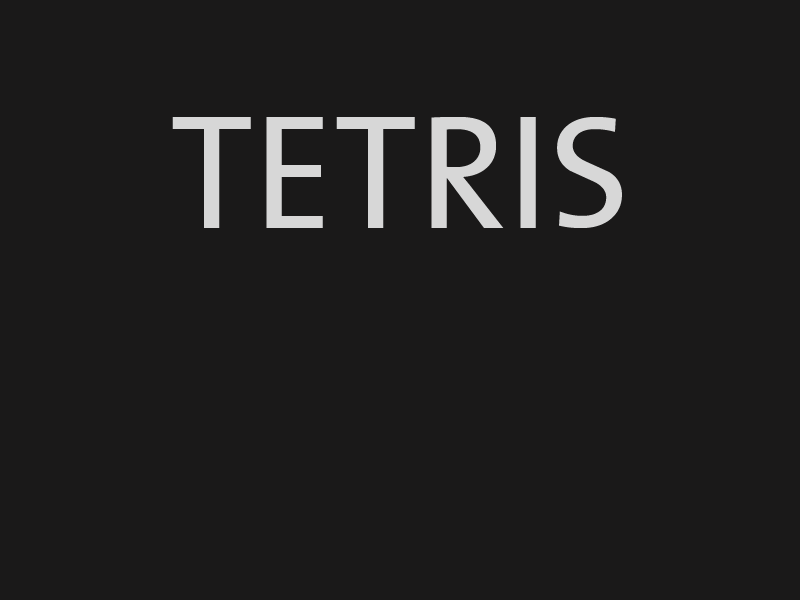
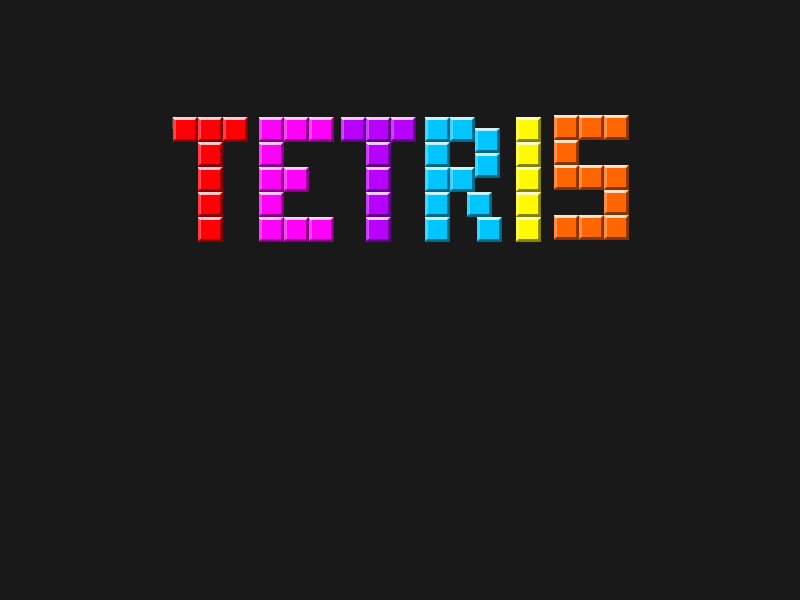
Updated the collision handler and block class, hopefully the bug where a block disappears will be gone now. When halting a block, all squares are now positioned with non-decimal positions. Also, the main menu screen is changed. When pressing "statistics" in game over screen an example plot is shown.

Changed region(s): [[0.2188, 0.18, 0.8125, 0.42]]

diff --git a/src/tetris/Test.java b/src/tetris/Test.java
@@ -1,0 +1,93 @@
+package tetris;
+import java.io.BufferedReader;
+import java.io.File;
+import java.io.FileNotFoundException;
+import java.io.FileReader;
+import java.io.IOException;
+
+import javax.swing.JFrame;
+
+import org.jfree.chart.ChartFactory;
+import org.jfree.chart.ChartPanel;
+import org.jfree.chart.JFreeChart;
+import org.jfree.chart.plot.PlotOrientation;
+import org.jfree.data.category.CategoryDataset;
+import org.jfree.data.category.DefaultCategoryDataset;
+
+public class Test extends JFrame {
+
+	private static final long serialVersionUID = 1L;
+	private BufferedReader in;
+	
+	public void reveal() {
+		pack();
+		setVisible(true);
+	}
+
+	public Test(File file) {
+		super("Difficulty chart");
+		try {
+			in = new BufferedReader(new FileReader(file));
+		} catch (FileNotFoundException e) {
+			e.printStackTrace();
+		}
+		// This will create the dataset
+		CategoryDataset dataset = createDataset();
+		// based on the dataset we create the chart
+		JFreeChart chart = createChart(dataset, "Difficulty over time");
+		// we put the chart into a panel
+		ChartPanel chartPanel = new ChartPanel(chart);
+		// default size
+		chartPanel.setPreferredSize(new java.awt.Dimension(500, 270));
+		// add it to our application
+		setContentPane(chartPanel);
+		
+
+
+	}
+
+	/**
+	 * Creates a sample dataset
+	 */
+
+	private CategoryDataset createDataset() {
+		DefaultCategoryDataset result = new DefaultCategoryDataset();
+		final String series1 = "Session";
+		String line = "";
+		String[] values;
+		try {
+			line = in.readLine();
+			while(line != null) {
+				values = line.split(",");
+				result.addValue(Double.parseDouble(values[1]), series1, values[0]);
+				line = in.readLine();
+			}
+		} catch (IOException e) {
+			e.printStackTrace();
+		}
+			
+		return result;
+
+	}
+
+	/**
+	 * Creates a chart
+	 */
+
+	private JFreeChart createChart(CategoryDataset dataset, String title) {
+
+		final JFreeChart chart = ChartFactory.createLineChart(
+				"Difficulty over time", // chart title
+				"Time (seconds)", // domain axis label
+				"Difficulty", // range axis label
+				dataset, // data
+				PlotOrientation.VERTICAL, // orientation
+				true, // include legend
+				true, // tooltips
+				false // urls
+				);
+		
+		return chart;
+
+	}
+}

diff --git a/src/tetris/GamePlayState.java b/src/tetris/GamePlayState.java
@@ -41,7 +41,7 @@ public class GamePlayState extends BasicGameState {
 	public GamePlayState(int stateID, Game game) {
 		this.stateID = stateID;
 		gridSquares = new Square[gridWidth][gridHeight];
-		blockSpeed = 1f;// The speed with which all blocks will be falling
+		blockSpeed = 3.3f;// The speed with which all blocks will be falling
 		collisionHandler = new CollisionHandler(this);
 		builder = new BlockBuilder(this);
 		timeSinceGameOver = 0;
@@ -139,14 +139,10 @@ public class GamePlayState extends BasicGameState {
 				}
 			} else if (input.isKeyPressed(Input.KEY_UP)) {
 				block.rotate();
-				/*
-				 * } else if (input.isKeyPressed(Input.KEY_DOWN)) {
-				 * block.reverseRotate();
-				 */
 			} else if (input.isKeyPressed(Input.KEY_R)) {
 				block.setPosition(276, 26);
 			}
-			if (input.isKeyDown(Input.KEY_DOWN)) {
+			else if (input.isKeyDown(Input.KEY_DOWN)) {
 				block.setSpeed(10);
 			} else {
 				block.setSpeed(getBlockSpeed());
@@ -154,6 +150,7 @@ public class GamePlayState extends BasicGameState {
 
 			float collisionDistance = collisionHandler.willCollideDown(block);
 			if (collisionDistance > 0) {
+				System.out.println(collisionDistance);
 				block.moveDown(collisionDistance); // The block is moved down
 													// the
 													// distance left to
@@ -173,6 +170,13 @@ public class GamePlayState extends BasicGameState {
 		nextBlock.setOnTop();
 		block = nextBlock;
 		nextBlock = builder.generateBlock();
+		for (int i = 0; i < gridWidth; i++) {
+			for (int j = 0; j < gridHeight; j++) {
+				if (gridSquares[i][j] != null) {
+					System.out.println("X: " + gridSquares[i][j].getX()+ ", Y: " + gridSquares[i][j].getY());
+				}
+			}
+		}
 	}
 
 	public void updateScore(int fullRow) {

diff --git a/src/tetris/components/BlockBuilder.java b/src/tetris/components/BlockBuilder.java
@@ -10,7 +10,7 @@ public class BlockBuilder {
 	private float blockSpeed;
 	private float x, y;
 	public BlockBuilder(GamePlayState gps) {
-		blockSpeed = gps.getBlockSpeed();
+		blockSpeed = (float) gps.getBlockSpeed();
 		x = Measurements.GRID_XSTART+Measurements.GRID_WIDTH + 4*BlockInfo.SIZE;
 		y = Measurements.GRID_YSTART + 4*BlockInfo.SIZE;
 	}
@@ -20,19 +20,19 @@ public class BlockBuilder {
 		int block = random.nextInt(7);
 		switch (block) {
 		case 0:
-			return new IBlock(x,y-10, blockSpeed);
+			return new IBlock(x,y-10, blockSpeed);//I
 		case 1:
-			return new JBlock(x+10,y, blockSpeed);
+			return new JBlock(x+10,y, blockSpeed);//J
 		case 2:
-			return new LBlock(x+10,y, blockSpeed);
+			return new LBlock(x+10,y, blockSpeed);//L
 		case 3:
-			return new OBlock(x,y-BlockInfo.SIZE, blockSpeed);
+			return new OBlock(x,y-BlockInfo.SIZE, blockSpeed);//O
 		case 4:
-			return new SBlock(x-10,y-BlockInfo.SIZE, blockSpeed);
+			return new SBlock(x-10,y-BlockInfo.SIZE, blockSpeed);//S
 		case 5:
-			return new TBlock(x+10,y, blockSpeed);
+			return new TBlock(x+10,y, blockSpeed);//T
 		case 6:
-			return new ZBlock(x+10,y-BlockInfo.SIZE, blockSpeed);
+			return new ZBlock(x+10,y-BlockInfo.SIZE, blockSpeed);//Z
 		}
 		return null;
 	}

diff --git a/src/tetris/CollisionHandler.java b/src/tetris/CollisionHandler.java
@@ -81,7 +81,7 @@ public class CollisionHandler {
 				for (int j = 0; j < gridHeight; j++) {
 					if (squares[i][j] != null) {
 						Square gridSquare = squares[i][j];
-						if (square.getX() == gridSquare.getX()) {
+						if (square.getX() >= gridSquare.getX()-1 && square.getX() <= gridSquare.getX()+1) {
 							if (square.getY() <= gridSquare.getY()
 									+ BlockInfo.SIZE
 									&& square.getY() >= gridSquare.getY()
@@ -180,7 +180,7 @@ public class CollisionHandler {
 								&& !(gridSquare.getY() < square.getY())) {
 							if (gridSquare.getY() <= (square.getY()
 									+ BlockInfo.SIZE + block.getSpeed())) {
-								float distanceLeft = (float) (gridSquare.getY() - (square
+								float distanceLeft = (gridSquare.getY() - (square
 										.getY() + BlockInfo.SIZE));
 								if (distanceLeft > 0)
 									return distanceLeft;

diff --git a/src/tetris/components/Block.java b/src/tetris/components/Block.java
@@ -1,5 +1,6 @@
 package tetris.components;
 
+import java.text.DecimalFormat;
 import java.util.ArrayList;
 
 import resources.BlockInfo;
@@ -44,6 +45,15 @@ public class Block {
 	 */
 	public void halt() {
 		isMoving = false;
+		adjustSquares();
+	}
+	
+	public void adjustSquares() {
+		DecimalFormat df = new DecimalFormat("#.");
+		for(Square square : squares) {
+			square.setX(Float.valueOf(df.format(square.getX())));
+			square.setY(Float.valueOf(df.format(square.getY())));
+		}
 	}
 
 	/**

diff --git a/src/tetris/GameOverState.java b/src/tetris/GameOverState.java
@@ -2,6 +2,7 @@ package tetris;
 
 import java.awt.Color;
 import java.awt.Font;
+import java.io.File;
 
 import org.newdawn.slick.GameContainer;
 import org.newdawn.slick.Graphics;
@@ -37,7 +38,8 @@ public class GameOverState extends BasicGameState {
 				stateID) {
 			@Override
 			public void perform() {
-				System.out.println("LAWL");
+				Test test = new Test(new File("conf/exp.dif"));
+				test.reveal();
 			}
 		};
 		

diff --git a/src/tetris/DifficultyManager.java b/src/tetris/DifficultyManager.java
@@ -16,7 +16,7 @@ public class DifficultyManager {
 
 	public DifficultyManager(File file, GamePlayState gps) {
 		try {
-			in = new BufferedReader(new FileReader(new File("conf/easy.dif")));
+			in = new BufferedReader(new FileReader(new File("conf/exp.dif")));
 			isReady = true;
 			currentTime = 0;
 			changeTime = 0;
